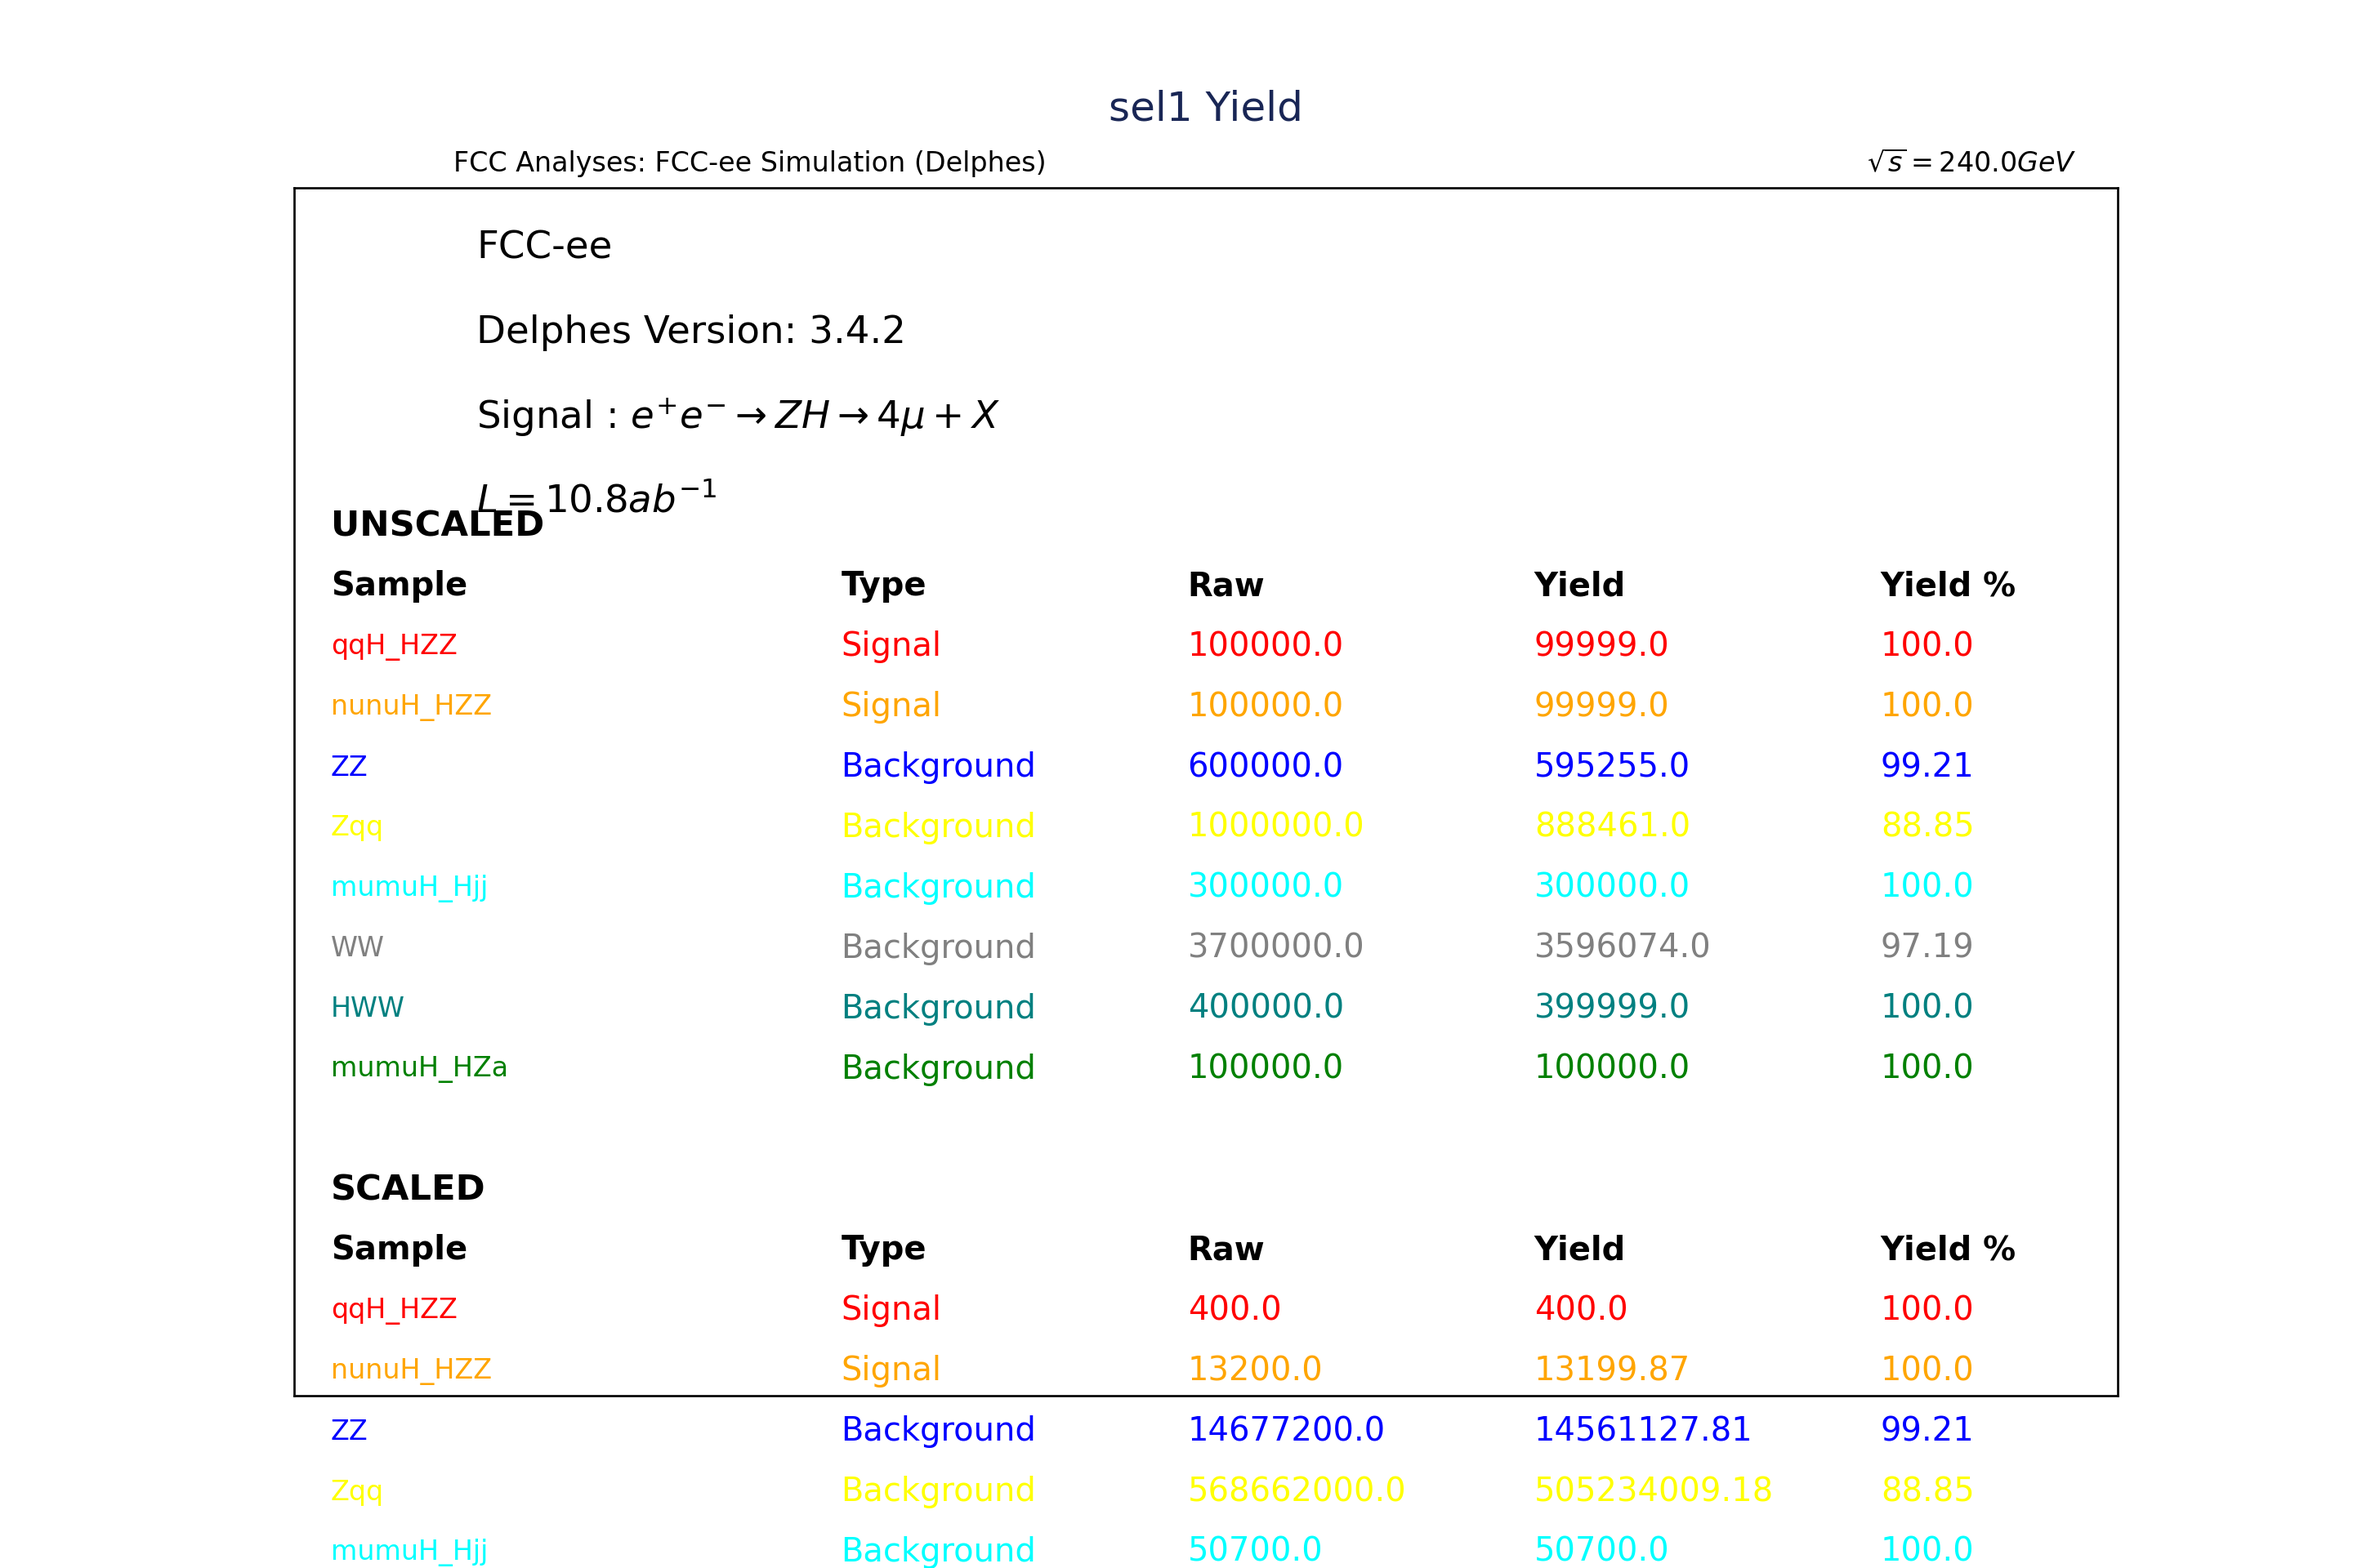
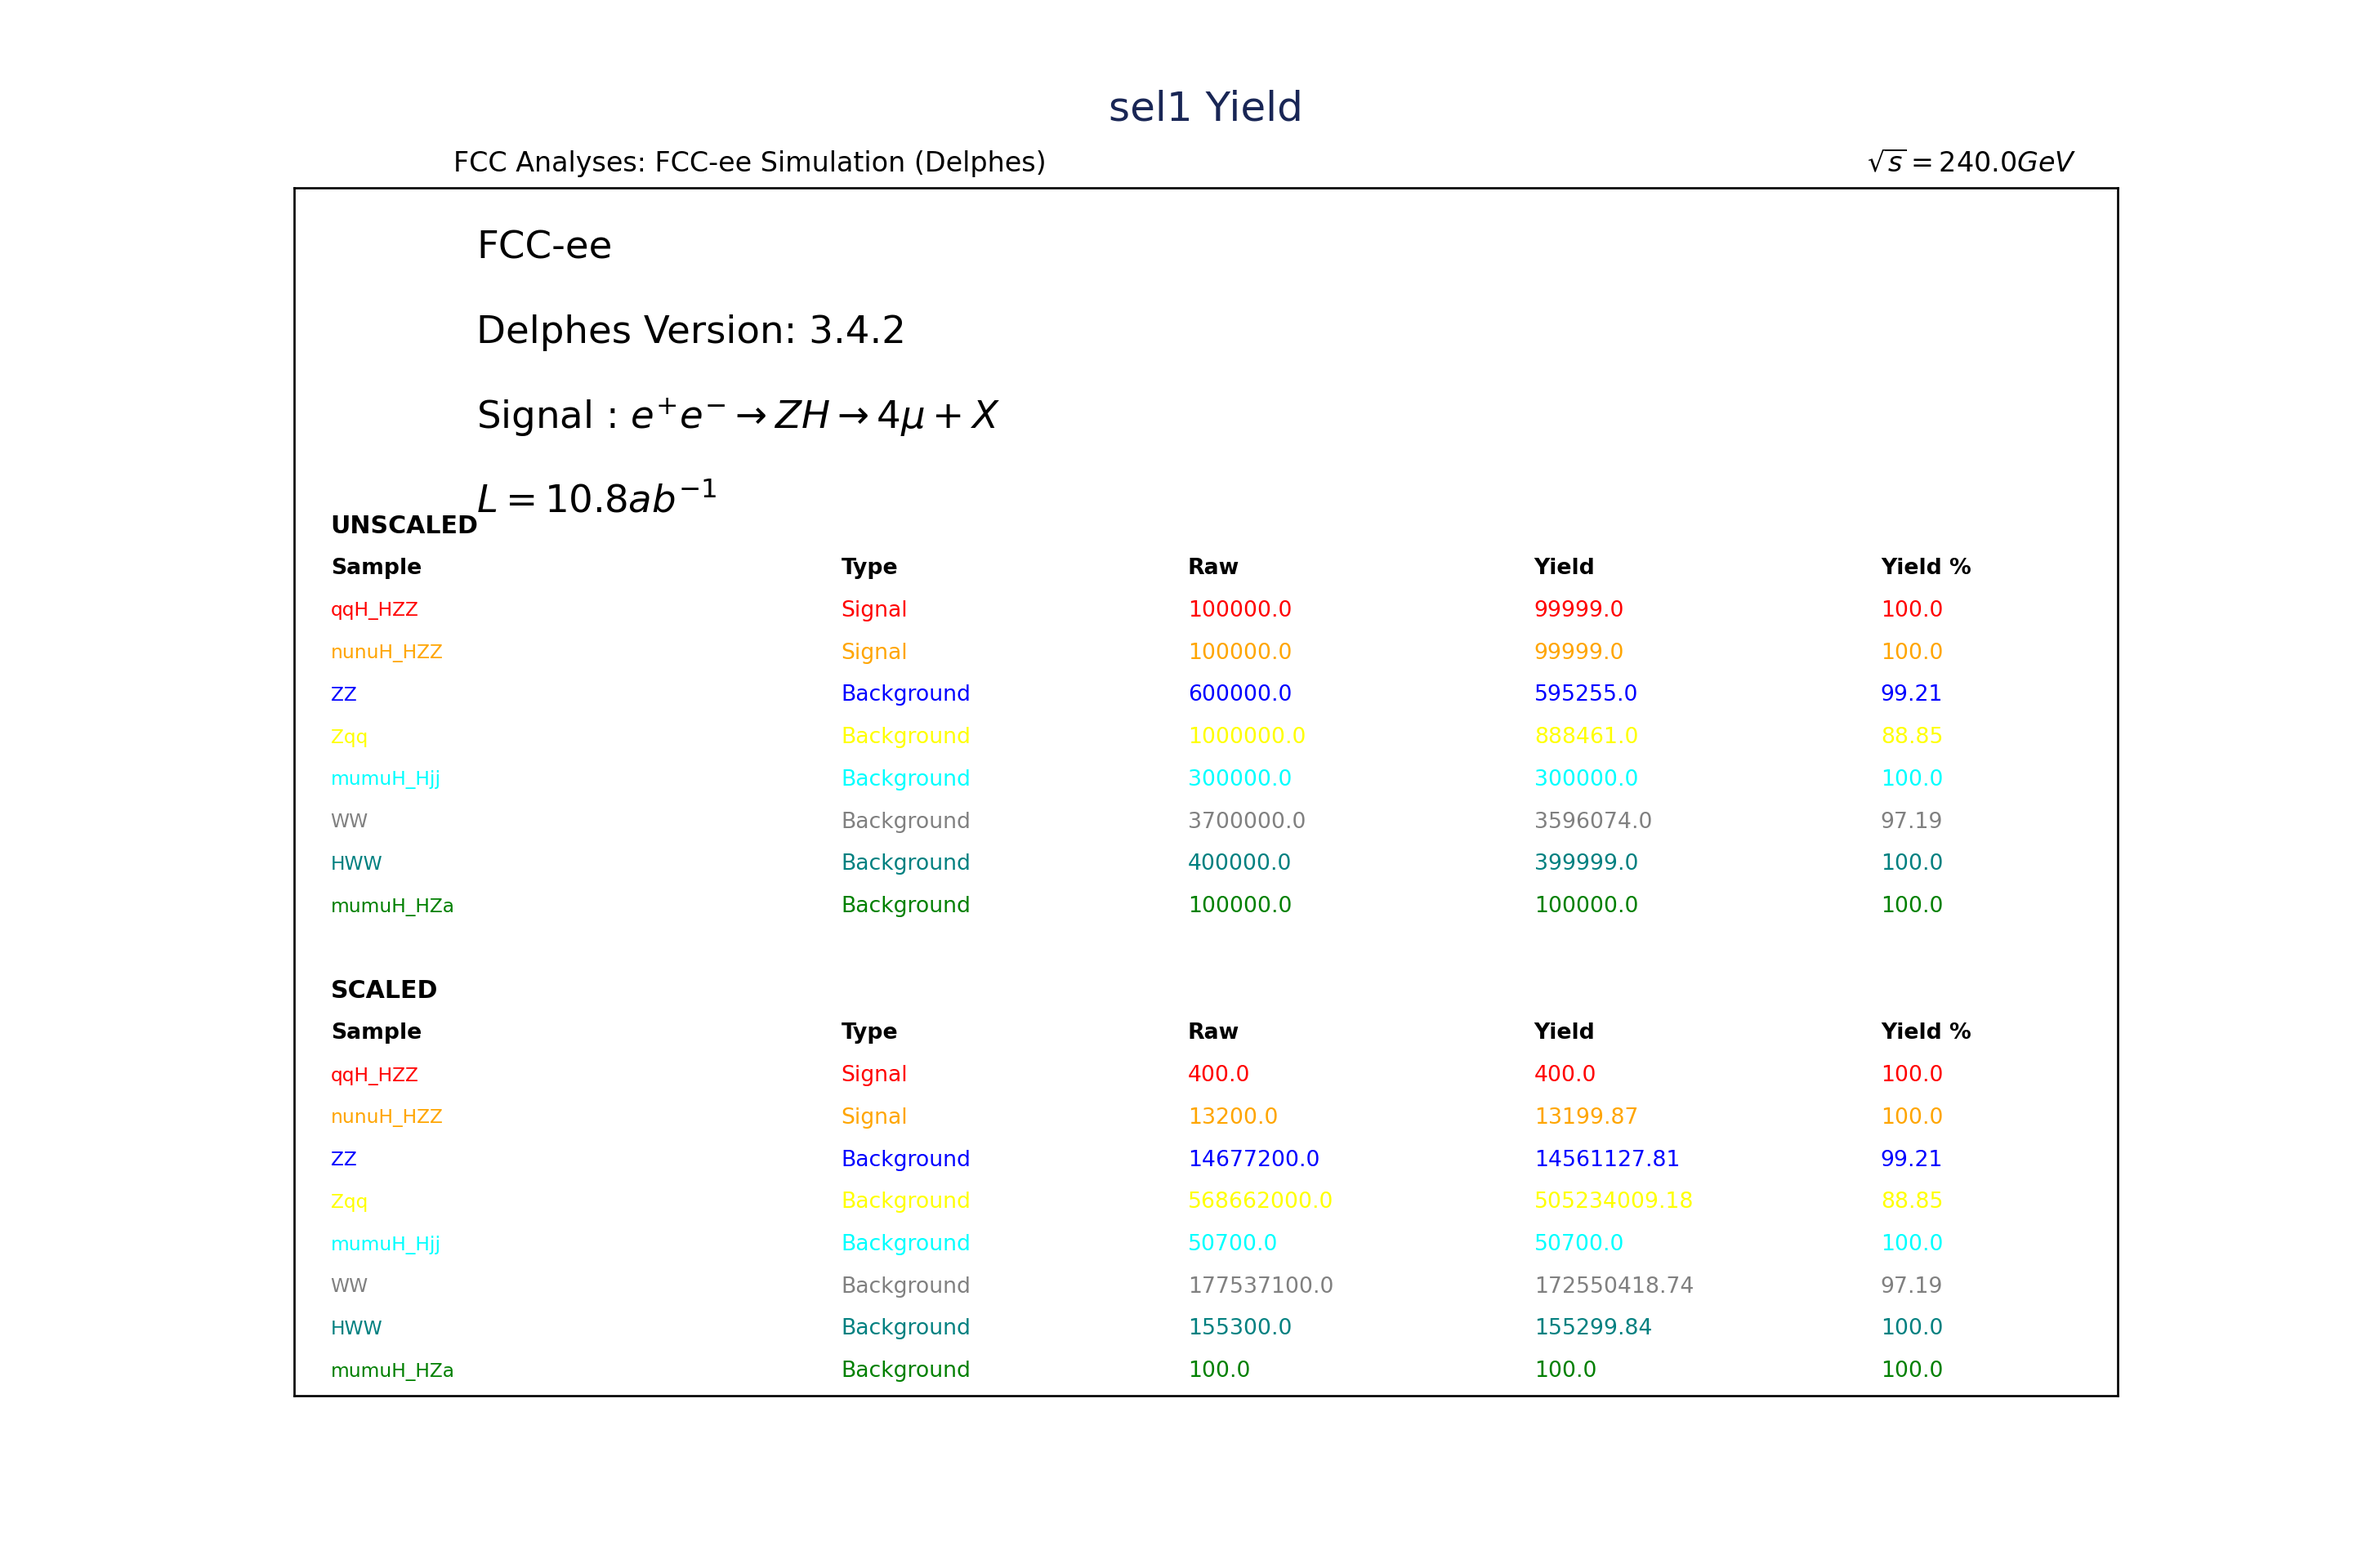
import config improvements in plotter.py

diff --git a/examples/FCCee/higgs/4leptons/plotter.py b/examples/FCCee/higgs/4leptons/plotter.py
@@ -84,6 +84,7 @@ def yield_plot(name, title, keys, scaled, unscaled, formats, path, plot_width=8,
 
     
     table_scale = getattr(config, "yield_table_scale", 1)
+    print("table_scale", table_scale)
     level, linespacing = 0.72, 0.05
     for scale,obs in zip(['UNSCALED','SCALED'],[unscaled,scaled]):
         ax.text(0.02, level, scale, weight='bold', fontsize=int(13*table_scale), horizontalalignment='left', verticalalignment='center', transform=ax.transAxes)

diff --git a/examples/FCCee/higgs/4leptons/config.py b/examples/FCCee/higgs/4leptons/config.py
@@ -131,4 +131,4 @@ energy         = ecm #in GeV
 collider       = 'FCC-ee'
 
 # Extra cosmetics
-yeild_table_scale = 0.7 # reduce font sizes in yield table by this factor, so that they fit in the figure area
+yield_table_scale = 0.7 # reduce font sizes in yield table by this factor, so that they fit in the figure area
